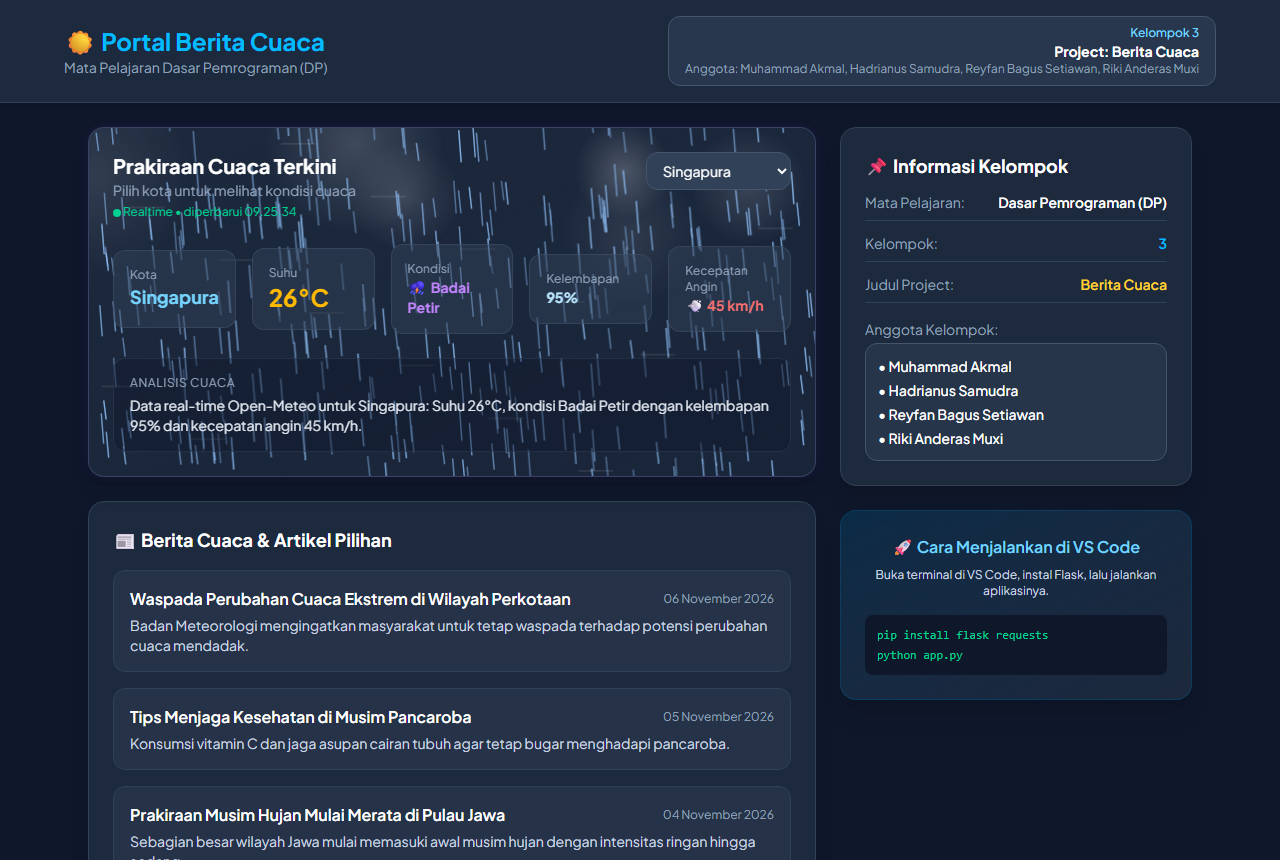
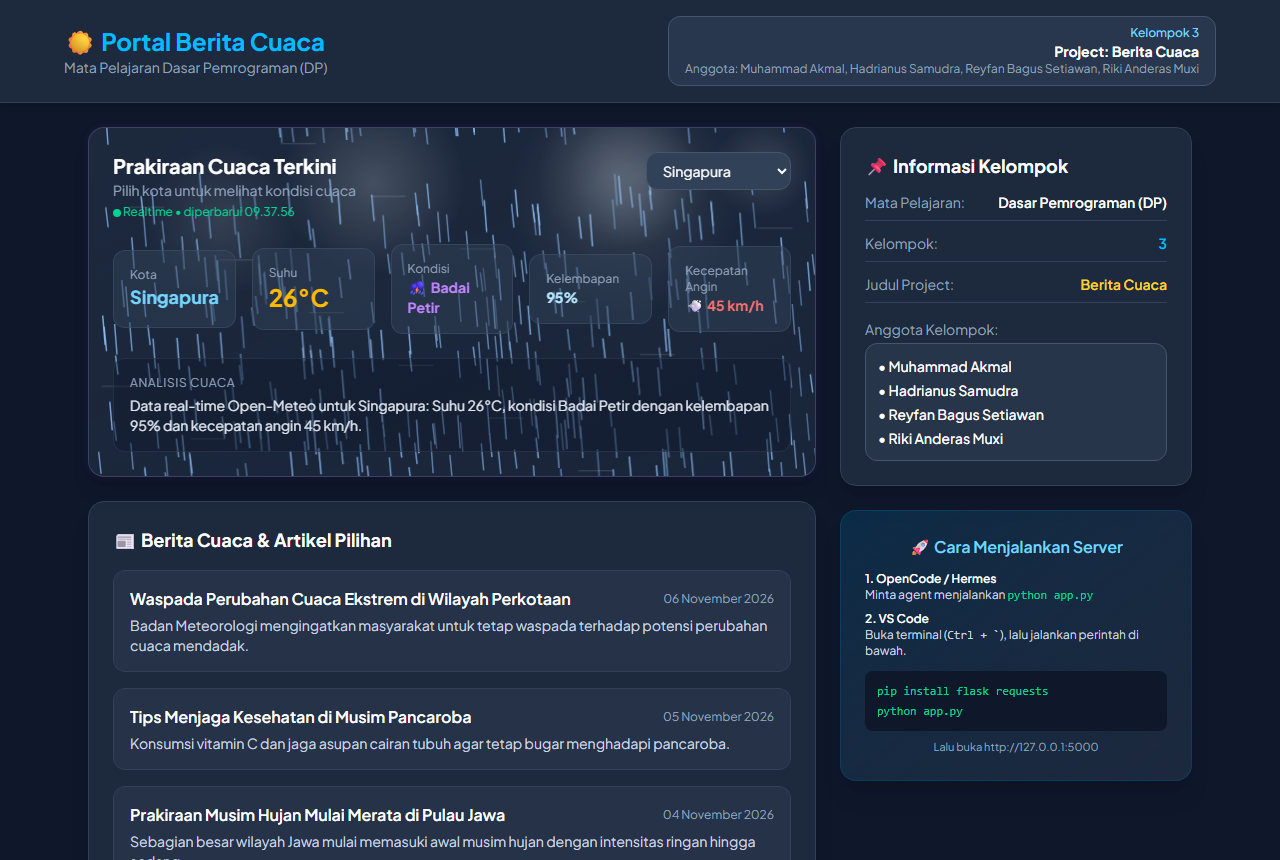
Update cara menjalankan: OpenCode/Hermes atau VS Code

diff --git a/app.py b/app.py
@@ -294,13 +294,23 @@ PAGE_TEMPLATE = r"""
                 </ul>
             </div>
 
-            <div class="bg-gradient-to-br from-sky-900/40 to-slate-800 p-6 rounded-2xl border border-sky-800/40 shadow-xl text-center">
-                <p class="text-sky-300 font-semibold mb-2">🚀 Cara Menjalankan di VS Code</p>
-                <p class="text-xs text-slate-300 mb-4">Buka terminal di VS Code, instal Flask, lalu jalankan aplikasinya.</p>
-                <div class="bg-slate-900 p-3 rounded-lg text-xs font-mono text-emerald-400 overflow-x-auto text-left space-y-1">
+            <div class="bg-gradient-to-br from-sky-900/40 to-slate-800 p-6 rounded-2xl border border-sky-800/40 shadow-xl">
+                <p class="text-sky-300 font-semibold mb-3 text-center">🚀 Cara Menjalankan Server</p>
+                <div class="space-y-2 text-xs text-slate-300">
+                    <p>
+                        <span class="font-semibold text-white">1. OpenCode / Hermes</span><br>
+                        Minta agent menjalankan <span class="font-mono text-emerald-400">python app.py</span>
+                    </p>
+                    <p>
+                        <span class="font-semibold text-white">2. VS Code</span><br>
+                        Buka terminal (<span class="font-mono">Ctrl + `</span>), lalu jalankan perintah di bawah.
+                    </p>
+                </div>
+                <div class="bg-slate-900 p-3 rounded-lg text-xs font-mono text-emerald-400 overflow-x-auto text-left space-y-1 mt-3">
                     <p>pip install flask requests</p>
                     <p>python app.py</p>
                 </div>
+                <p class="text-[11px] text-slate-400 mt-2 text-center">Lalu buka http://127.0.0.1:5000</p>
             </div>
         </aside>
     </main>

diff --git a/README.md b/README.md
@@ -30,12 +30,35 @@ Dibuat dengan Python (Flask) dan menampilkan data cuaca langsung dari Open-Meteo
 
 ## Cara Menjalankan
 
-```bash
-pip install flask requests
-python app.py
-```
+Server bisa dihidupkan lewat **OpenCode / Hermes** (meminta agent menjalankannya) atau lewat terminal **VS Code**.
 
-Buka browser ke <http://127.0.0.1:5000>
+### 1. Lewat OpenCode / Hermes (agent)
+
+Minta agent untuk menyalakan server, contohnya:
+
+> jalankan `python app.py`
+
+Agent akan mengeksekusi perintahnya dan server langsung aktif.
+
+### 2. Lewat VS Code
+
+1. Buka folder proyek di VS Code (`File > Open Folder`).
+2. Buka terminal: `Terminal > New Terminal` (atau `` Ctrl + ` ``).
+3. Instal dependensi (cukup sekali):
+
+   ```bash
+   pip install flask requests
+   ```
+
+4. Jalankan aplikasi:
+
+   ```bash
+   python app.py
+   ```
+
+### 3. Buka di Browser
+
+<http://127.0.0.1:5000>
 
 ## Struktur
 
